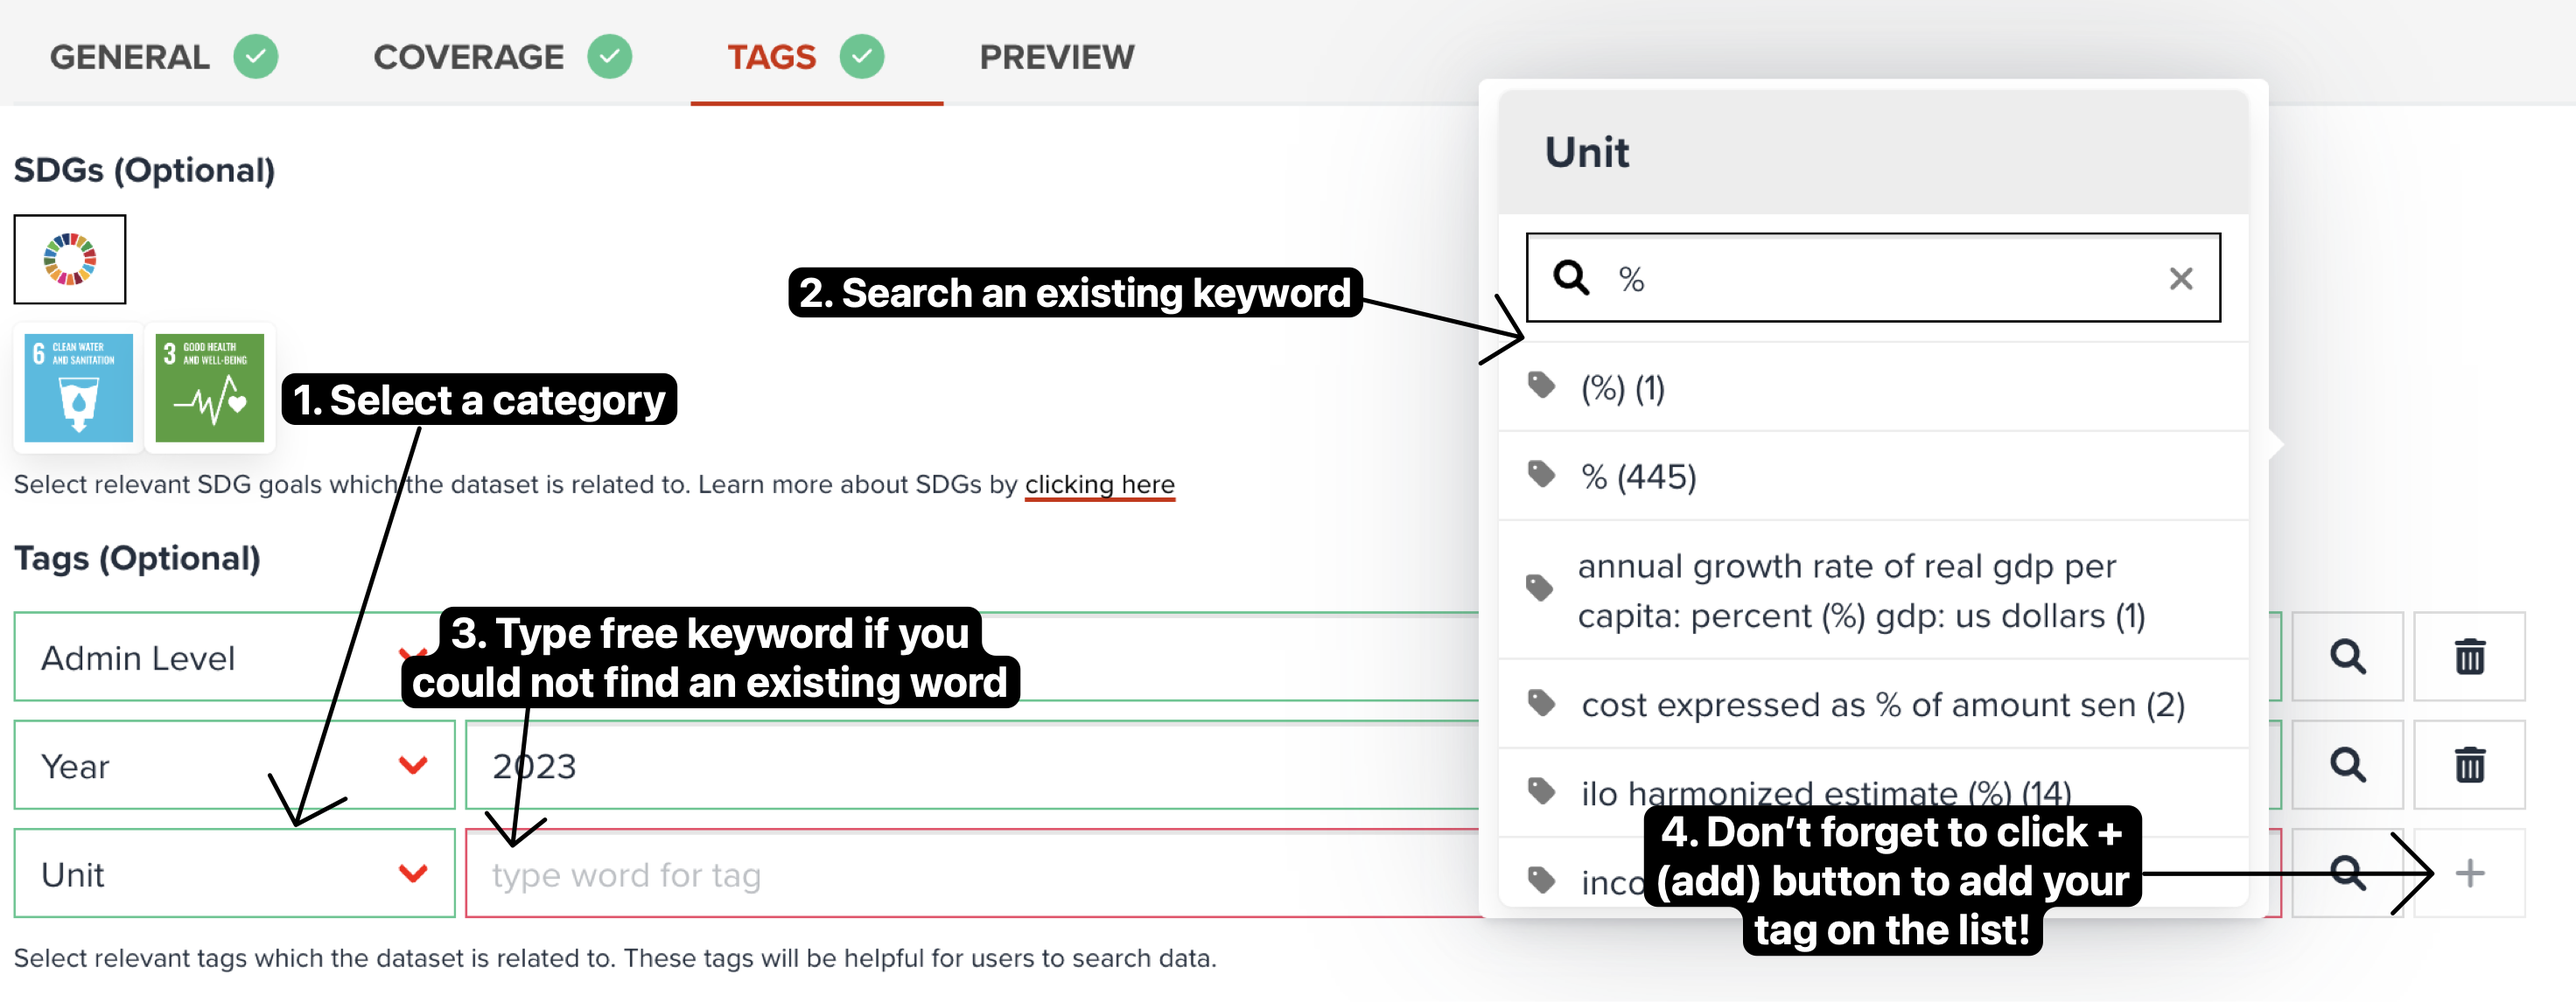
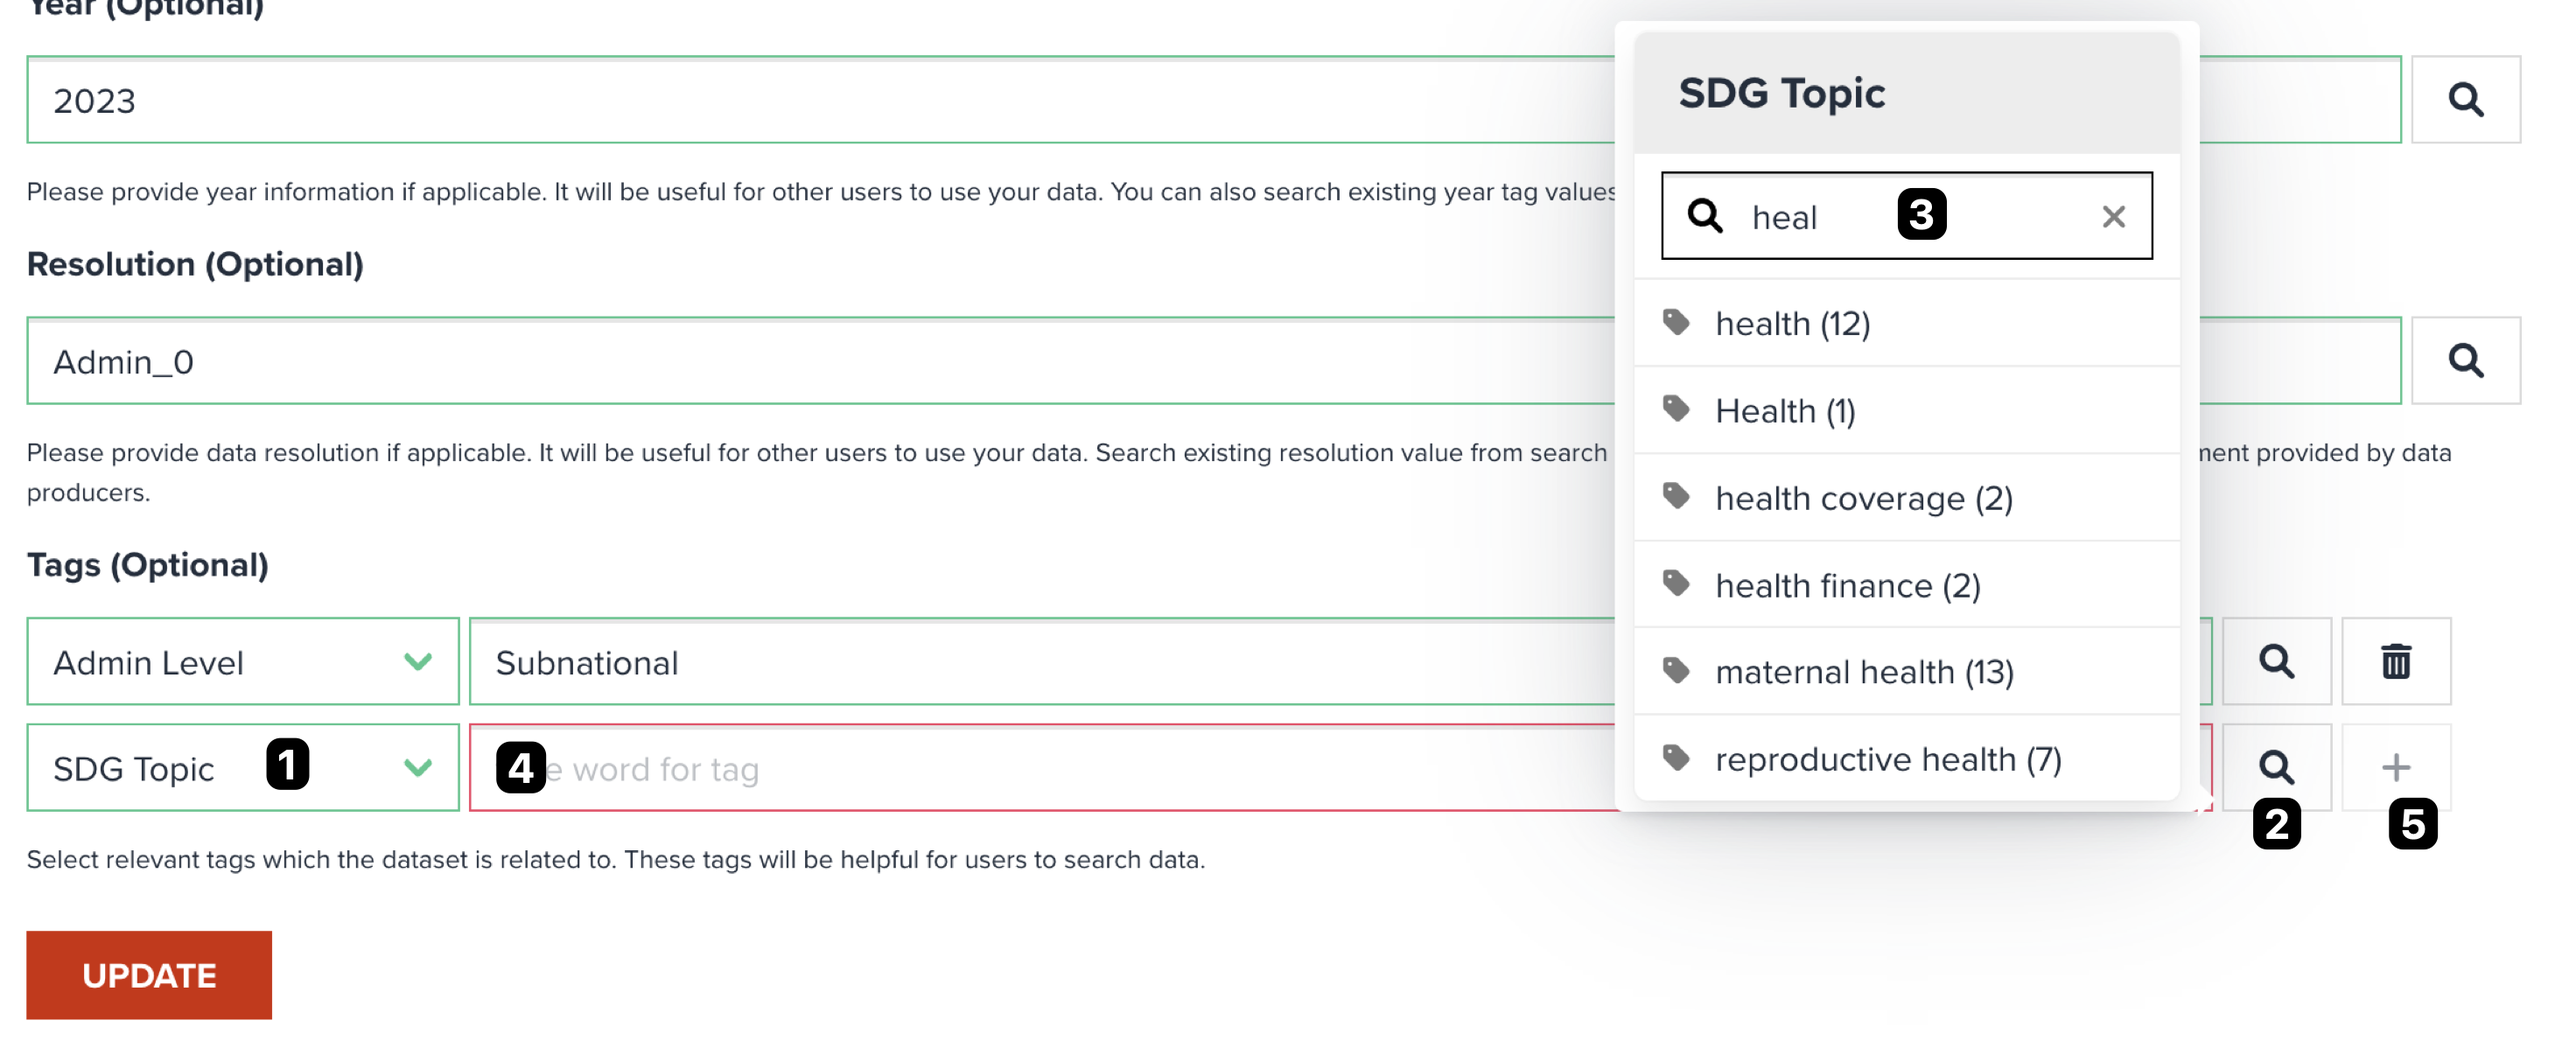
fix: updated screenshot for tags

diff --git a/documentation/docs/data/publish_datasets.md b/documentation/docs/data/publish_datasets.md
@@ -114,16 +114,16 @@ Lastly, this is the most important selection. Please select counties from search
   <figcaption>Select country on countries search dialog</figcaption>
 </figure>
 
-### Select tags
+### Selecting optional tags
 
-As shown in the below figure, two types of tags can be selected additionally for your dataset.
+As shown in the below figure, there are couple of tags can be selected additionally for your dataset. These tag information will be shown at `INFO` tab of your data page and will be used by searching datasets. Furthermore, these tags might be very useful for other users to evaluate your dataset.
 
 <figure markdown="span">
   ![publish_5](../assets/data/publish_5.png){:style="width: 100%;"}
   <figcaption>An example of tags tab at publish page</figcaption>
 </figure>
 
-- SDGs
+#### SDGs
 
 If your dataset is related to any SDGs, you can select a single / multiple SDGs from the button. You can select goals as much as you want. You can see selected SDG icons under the button.
 
@@ -136,9 +136,31 @@ If your dataset is related to any SDGs, you can select a single / multiple SDGs 
 
     Your selected SDGs tags will be used to search datasets by other users. It is important to select related SDG tags for your dataset. So, it will be easier for other people to find your valuable dataset.
 
-- Optional tags
+#### Unit
 
-There are several categories available for you to select for your data. These additional tags may also be used for searching by other users. Also, some of tags such as `Unit` will be shown as metadata of your dataset.
+If your data is a **raster** dataset, **unit** can be very useful information when other users want to use your data. You may find this information on the document which come with your geospatial data.
+
+!!! note
+
+    Firstly, you can explore any existing values from **search** button which positions next to textbox. If you could not find existing unit value, you can type any value on the textbox.
+
+#### Year
+
+**Year** tends to be very critical information when other users want to use your data. You may find this information on the document which come with your geospatial data.
+
+#### Resolution
+
+**Resolution** of the data is also an useful information for other users. You may find this information on the document which come with your geospatial data.
+
+!!! note
+
+    If your data is a **raster** dataset, resolution is normally refered to a single pixel size. Higher resolution value contains more pixels per unit area. Read more about raster resolution [here](https://pro.arcgis.com/en/pro-app/3.1/help/data/imagery/pixel-size-of-image-and-raster-data-pro-.htm).
+
+    You may find difficulty to select a resolution if your data is a **vector** data, you maybe can skip this property, or type administrative level (admin 1, admin 2, national, subnatinal, etc) in this property.
+
+#### Other optional tags
+
+There are several categories available for you to select for your data. These additional tags may also be used for searching by other users.
 
 <figure markdown="span">
   ![publish_11](../assets/data/publish_11.png){:style="width: 100%;"}
@@ -148,9 +170,10 @@ There are several categories available for you to select for your data. These ad
 The steps to select other tag is shown at the above figure.
 
 1. Select a category from select box
-1. Try to search an existing tag from search window by clicking search button. You can filter by free keyword, then double-click to add it.
-1. You can also enter any keyword directly on textbox if you could not find an appropriate tag from existing ones.
-1. Lastly, don't forget to click `+ (add)` button to add selected tag on the list.
+2. Click **search** button to open a dialog.
+3. Try to search an existing tag from search window by clicking search button. You can filter by free keyword, then double-click to add it.
+4. You can also enter any keyword directly on textbox if you could not find an appropriate tag from existing ones.
+5. Lastly, don't forget to click `+ (add)` button to add selected tag on the list.
 
 ### Tools (Optional)
 
